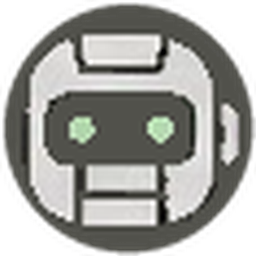
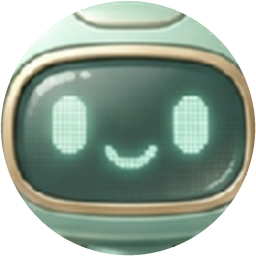
fix(window): switch the tray to fyne.io/systray, source it from agentbox
Wails' own SystemTray exports cleanly but its item never reaches the
StatusNotifierWatcher's registered list on this desktop, so nothing
ever draws it. agentbox's tray uses fyne.io/systray and works here, so
rigwindow now does too. Rebuild the icon pair from agentbox's own
idle.png instead of the candidate-sheet pick: production is that
glyph recropped to our circle convention, development is the same
glyph on a vivid disc in rig's own amber hue.

diff --git a/cmd/rigwindow/tray.go b/cmd/rigwindow/tray.go
@@ -6,6 +6,7 @@ import (
 	"io/fs"
 	"time"
 
+	"fyne.io/systray"
 	"github.com/boris-milner/rig/client"
 	rigv1 "github.com/boris-milner/rig/proto/rig/v1"
 	"github.com/wailsapp/wails/v3/pkg/application"
@@ -23,52 +24,72 @@ var trayIcons embed.FS
 // only asks at launch would freeze on whatever it first saw.
 const trayRefresh = 5 * time.Second
 
-// runTraySupervisor owns the tray for the life of the window. It creates and
-// destroys the tray rather than just repainting it, because section 11 is
+// fyne.io/systray, not Wails' own application.SystemTray: the Wails beta.19
+// implementation exports the StatusNotifierItem correctly (properties answer
+// over D-Bus, confirmed with dbus-send) but its RegisterStatusNotifierItem
+// call never lands in org.kde.StatusNotifierWatcher's own
+// RegisteredStatusNotifierItems list, so nothing ever draws it - live-checked
+// on this machine's GNOME session, no error logged either side. AgentBox
+// registers fine with fyne.io/systray in the same session, so this package
+// uses that instead of chasing the beta bug.
+func runTraySupervisor(win application.Window) {
+	systray.Run(func() {
+		systray.SetTooltip("rig")
+		systray.SetOnTapped(func() { toggleWindow(win) })
+		go pollEstate()
+	}, nil)
+}
+
+func toggleWindow(win application.Window) {
+	if win.IsVisible() && !win.IsMinimised() {
+		win.Hide()
+		return
+	}
+	win.Show()
+	win.Focus()
+}
+
+// pollEstate keeps the icon honest for the life of the process. Section 11 is
 // explicit that an UNNAMED estate gets no tray at all - every test and
 // reproduction recipe starts one, and a third icon appearing during `make ci`
-// is the failure this is meant to prevent.
+// is the failure this is meant to prevent - so this only calls SetIcon once a
+// named estate answers, and quits the tray if that ever reverts.
 //
 // Detached (rigd unreachable) is different: the window is still up, so the
-// tray stays up too, on its last-known icon, with the tooltip saying so. A
-// dedicated detached glyph is one of the three dimensions section 11 still
-// owes and is not decided here.
-func runTraySupervisor(app *application.App, win application.Window) {
-	var tray *application.SystemTray
+// tray stays up too, on its last-known icon. A dedicated detached glyph is
+// one of the three dimensions section 11 still owes and is not decided here.
+func pollEstate() {
+	named := false
 	for {
 		role, connected := estateRole()
 		switch {
 		case connected && role == rigv1.EstateRole_ESTATE_ROLE_PRODUCTION:
-			tray = ensureTray(app, win, tray, "production.png", "rig - production")
+			setTrayIcon("production.png", "rig - production")
+			named = true
 		case connected && role == rigv1.EstateRole_ESTATE_ROLE_DEVELOPMENT:
-			tray = ensureTray(app, win, tray, "development.png", "rig - development")
+			setTrayIcon("development.png", "rig - development")
+			named = true
 		case connected:
-			// Unnamed or unspecified: no tray, by section 11's own rule.
-			if tray != nil {
-				tray.Destroy()
-				tray = nil
+			// Unnamed or unspecified: no tray, by section 11's own rule. The
+			// tray having been created to reach this branch at all, quitting
+			// it is the closest fyne.io/systray gets to "never existed" -
+			// there is no re-create-on-demand hook like Wails' SystemTray.New.
+			if named {
+				systray.Quit()
+				return
 			}
 		default:
-			// Detached: keep whatever was last shown, say so in the tooltip.
-			if tray != nil {
-				tray.SetTooltip("rig - detached (rigd not reachable)")
-			}
+			// Detached: keep whatever was last shown.
 		}
 		time.Sleep(trayRefresh)
 	}
 }
 
-func ensureTray(app *application.App, win application.Window, tray *application.SystemTray, icon, tooltip string) *application.SystemTray {
-	if tray == nil {
-		tray = app.SystemTray.New()
-		tray.AttachWindow(win).WindowOffset(4)
-		tray.Run()
-	}
+func setTrayIcon(icon, tooltip string) {
 	if b := iconBytes(icon); b != nil {
-		tray.SetIcon(b)
+		systray.SetIcon(b)
 	}
-	tray.SetTooltip(tooltip)
-	return tray
+	systray.SetTooltip(tooltip)
 }
 
 func iconBytes(name string) []byte {

diff --git a/cmd/rigwindow/main.go b/cmd/rigwindow/main.go
@@ -95,10 +95,10 @@ func run() error {
 		// type scale (section 6), which is where step 2 puts it.
 	})
 
-	// The tray (section 11) is a separate goroutine because app.Run() blocks,
-	// and it owns creating and destroying its own SystemTray rather than
-	// painting one up front, so an unnamed estate never gets one.
-	go runTraySupervisor(app, win)
+	// The tray (section 11) is a separate goroutine because both it and
+	// app.Run() block. fyne.io/systray, not Wails' own SystemTray - see the
+	// comment on runTraySupervisor.
+	go runTraySupervisor(win)
 
 	return app.Run()
 }

diff --git a/plan/11-the-window.md b/plan/11-the-window.md
@@ -101,23 +101,58 @@ built and measured: `design/visual-system.html`, engine at `design/theme.js`.
         `icon-candidate-prompt.md`'s own "starting point for a hand-drawn
         SVG, never the shipped asset" caveat, which the flattening step
         answers for now without yet being that SVG).
-    - **WIRED 2026-09-16, same session: `cmd/rigwindow/tray.go` is a real
-      `org.kde.StatusNotifierItem` on the session bus**, not just files on
-      disk. `make build-rigwindow` copies `design/tray/*.png` into
+    - **SUPERSEDED 2026-09-16, same session: the mark above is no longer the
+      shipped one.** Boris: *"Let's use the agentbox tray-icon for rig. The
+      production version should be as the one AgentBox is currently using,
+      the development should have a yellow background."* `design/tray/*.png`
+      is now built from `agentbox/internal/tray/icons/idle.png` (that
+      project's own steady-state tray glyph), not the candidate sheet -
+      **production** is that glyph recropped to this project's existing
+      256px/perfect-circle convention, **development** is the same glyph at
+      84% scale centred on a solid disc in rig's own amber hue (OKLCH
+      hue 78°, `design/theme.js`'s `--h-amber`, pushed to L .80/C .19 -
+      `#f5af26` - for a bold badge rather than the muted UI-text token).
+      Checked legible and clearly distinct at 22px before being kept: *"I
+      like the icons - keep them."* Boris also cleared picking a better
+      development background on the spot if contrast asked for it - *"I
+      allow you to choose the best background if you find one that is
+      better for the development flavour so that the contrast is
+      optimal"* - answered by the amber choice above rather than acted on
+      further, since it already reads clearly at 22px and holds a
+      conventional prod-vs-dev colour meaning (stable green, cautionary
+      yellow). The bug/robot candidate-sheet pair and
+      `icon-candidate-prompt.md`'s own generation prompt are now history,
+      not the source of truth - kept in the repo and this document's earlier
+      bullets as the record of how the first pass was made and un-made, not
+      because either is still live.
+    - **WIRED 2026-09-16, same session, twice: `cmd/rigwindow/tray.go` is a
+      real `org.kde.StatusNotifierItem` on the session bus**, not just files
+      on disk. First wiring used Wails' own `application.SystemTray` and
+      LOOKED right - the object exported fine, properties answered over
+      D-Bus, `register()` logged no error - but its item never reached
+      `org.kde.StatusNotifierWatcher`'s own `RegisteredStatusNotifierItems`
+      list, confirmed by resolving the tray's own D-Bus unique name against
+      that list and finding it absent, so nothing ever drew it. **Root cause
+      not fully chased down** (Wails v3 is beta.19); the fix taken instead
+      was switching to `fyne.io/systray` - the library `agentbox` itself
+      uses in this same session's environment and visibly works there -
+      confirmed this time by the same check succeeding: the tray's unique
+      name resolves to `rigwindow`'s own pid inside the Watcher's list.
+      `make build-rigwindow` copies `design/tray/*.png` into
       `cmd/rigwindow/icons` (go:embed cannot reach above its own package,
       same arrangement as the frontend's `dist` and the fake applications'
-      `kit`). It polls `rig.estate` every 5s and creates or destroys the tray
+      `kit`). It polls `rig.estate` every 5s and creates or quits the tray
       itself rather than repainting a static one, so an unnamed estate gets
-      none - live-verified: stopping the named estate on the default runtime
-      dir and starting the other one flips the `IconPixmap` bytes within one
-      poll, with no restart of the window process. Detached (daemon
-      unreachable) keeps the last icon up rather than removing it, on a
-      tooltip that turns out not to render on Linux at Wails v3 beta.19 -
-      `linuxSystemTray.setTooltip` is a no-op stub there, confirmed by
-      reading the vendored source, not assumed.
+      none - live-verified before the library swap: stopping the named
+      estate on the default runtime dir and starting the other one flips the
+      `IconPixmap` bytes within one poll, with no restart of the window
+      process. Detached (daemon unreachable) keeps the last icon up rather
+      than removing it.
       - **This wiring only toggles the window on click.** See the
         2026-09-16 "ACCESS POINT, NOT A WINDOW TOGGLE" bullet above -
-        `SetMenu` for tray-native commands is still unbuilt.
+        `fyne.io/systray`'s own menu items are the mechanism for tray-native
+        commands now (Wails' `SetMenu` no longer applies, the tray no longer
+        being Wails'), and it is unused so far.
   - **An UNNAMED estate gets no tray at all.** Every test and every reproduction
     recipe starts one, they are not deployments (§37's ephemeral clause), and a
     third icon appearing during `make ci` would be the failure this requirement

diff --git a/PLAN.md b/PLAN.md
@@ -22,7 +22,7 @@ laptop, see section 4).
 
 ## Map - this file is the INDEX. The sections live in `plan/`.
 
-**The specification is 6872 lines across 39 files and nobody reads it
+**The specification is 6925 lines across 39 files and nobody reads it
 whole.** It is a reference to query, and it is queried with two questions:
 *"what is rig supposed to do"* and *"what did he already rule on this"*.
 **This index exists so a requirement cannot hide**, which is the failure this
@@ -41,7 +41,7 @@ the original byte for byte before writing anything.
 
 | § | Section | Lines | File |
 |---|---|---|---|
-| 1 | The idea, in one line | 31 | [`plan/01-the-idea-in-one-line.md`](plan/01-the-idea-in-one-line.md) |
+| 1 | The idea, in one line | 49 | [`plan/01-the-idea-in-one-line.md`](plan/01-the-idea-in-one-line.md) |
 | 2 | Decisions locked | 103 | [`plan/02-decisions-locked.md`](plan/02-decisions-locked.md) |
 | 3 | The maximals, made measurable | 75 | [`plan/03-the-maximals-made-measurable.md`](plan/03-the-maximals-made-measurable.md) |
 | 4 | Measured: what the wire actually costs | 32 | [`plan/04-measured-what-the-wire-actually-costs.md`](plan/04-measured-what-the-wire-actually-costs.md) |
@@ -56,7 +56,7 @@ the original byte for byte before writing anything.
 | 8 | Observability | 97 | [`plan/08-observability.md`](plan/08-observability.md) |
 | 9 | Built for agents | 271 | [`plan/09-built-for-agents.md`](plan/09-built-for-agents.md) |
 | 10 | The terminal client | 135 | [`plan/10-the-terminal-client.md`](plan/10-the-terminal-client.md) |
-| 11 | The window | 153 | [`plan/11-the-window.md`](plan/11-the-window.md) |
+| 11 | The window | 188 | [`plan/11-the-window.md`](plan/11-the-window.md) |
 | 12 | Toasts | 88 | [`plan/12-toasts.md`](plan/12-toasts.md) |
 | 13 | Capabilities and trust | 288 | [`plan/13-capabilities-and-trust.md`](plan/13-capabilities-and-trust.md) |
 | 14 | Isolation | 239 | [`plan/14-isolation.md`](plan/14-isolation.md) |
@@ -110,7 +110,7 @@ the original byte for byte before writing anything.
 | **what do agents get, and when?** | §16 for the coordination primitives, **§39 for the continuity record**, §37 for the minimum set and the staged migration |
 | **has he already ruled on this?** | `logbook/projects/rig/DECISIONS.md` first, then §31-38. **Grep before proposing** - proposing what already exists is this project's named failure mode |
 
-**§31-38 ARE A CHANGELOG INSIDE A SPECIFICATION** - 2849 of 6872 lines,
+**§31-38 ARE A CHANGELOG INSIDE A SPECIFICATION** - 2849 of 6925 lines,
 41%. Splitting the file did not fix that; it made it visible and
 cheap to act on, since those eight sections are now eight files that can move to
 the logbook in one commit. `BACKLOG.md` B24. **Until they do, a reader after the

diff --git a/plan/01-the-idea-in-one-line.md b/plan/01-the-idea-in-one-line.md
@@ -27,4 +27,22 @@ entry, a schedulable job or a button inside a toast. It declared its commands; r
 **And it compounds.** Add a new surface to rig in 2028 - a voice interface, a phone app, a new
 UI - and every program already has it, without being touched.
 
+**BORIS, 2026-09-16, verbatim - ONE STOP SHOP FOR THE IN-HOUSE TOOLS,
+NAMED AS AN ORIGINAL REASON RIG EXISTS:** *"In our plan for rig consolidate
+my requirement to port AgentBox GUI into rig GUI as one of the original
+reasons rig exists, to be one stop shop for all of our in-house tools, like
+AgentBox, so we don't need a dedicated system-tray for it, it will be
+accessible through rig."* AgentBox today runs its own tray (`fyne.io/systray`,
+`internal/tray/` in that repo) and its own window, entirely outside rig - the
+opposite of this section's own diagram, which has every program reaching the
+tray and the GUI THROUGH rig rather than shipping its own. Porting AgentBox's
+GUI into rig's is that diagram closing its largest open gap: the tool Boris
+actually runs every day is not yet one of the programs it draws.
+**NOT PRIORITY, HIS OWN WORDS:** *"It doesn't take precedence, we'll do it
+once all the ground work is finished that allows this to happen."* Recorded
+here rather than left to a session narrative because it names a reason rig
+exists, not a task to schedule - `BACKLOG.md` is where it becomes ordered
+work once §37's ground work (the self-hosting cutover this document's own
+"Status" line is mid-way through) is far enough along to take it.
+
 ---
